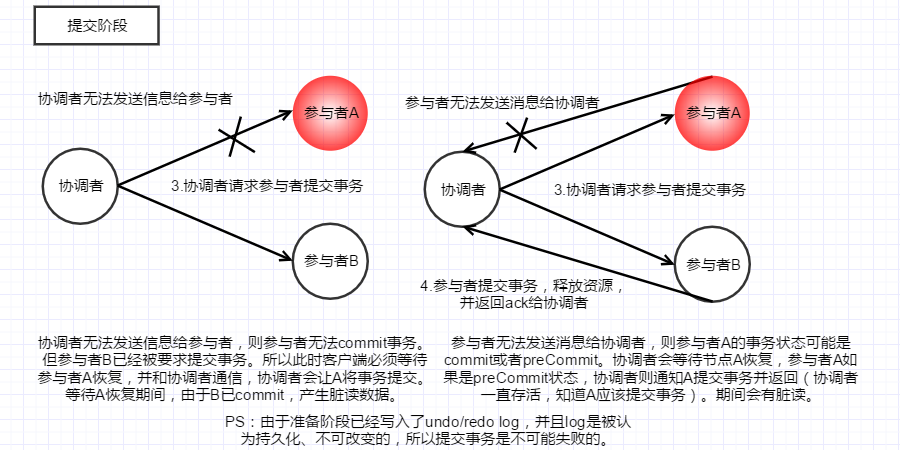
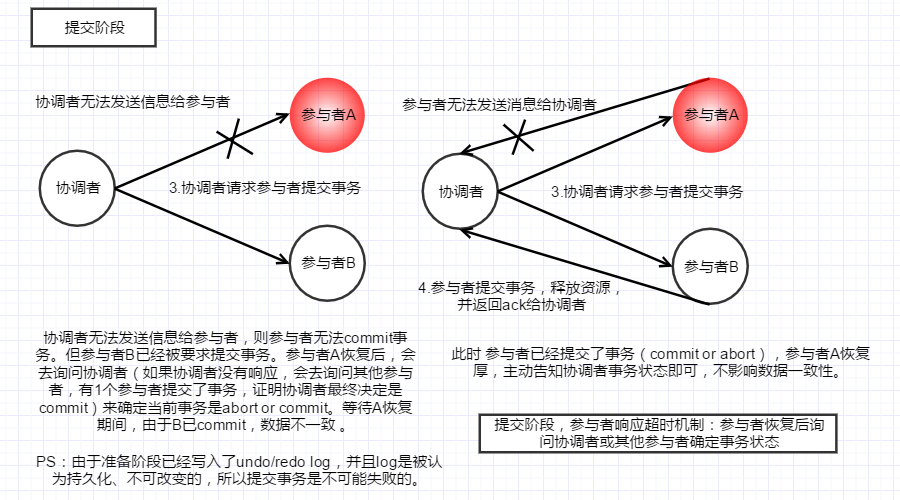
update

Changed region(s): [[0.0311, 0.1556, 0.9644, 0.9956], [0.0311, 0.0, 0.1867, 0.1244]]

diff --git a/source/_posts/分布式一致性算法：二段提交和三段提交.md b/source/_posts/分布式一致性算法：二段提交和三段提交.md
@@ -27,10 +27,11 @@ tags: [分布式一致性算法,二段提交,三段提交,分布式事务]
 - 参与者宕机：协调者会告知所有参与者回滚事务，执行rollback。参与者如果恢复，对于未提交的事务也采取rollback操作。
 ![2PC_ExceptionAnalysis](/resources/img/distributed_systems/2PC_ExceptionAnalysis1.png)
 ![2PC_ExceptionAnalysis](/resources/img/distributed_systems/2PC_ExceptionAnalysis2.png)
-- 协调者宕机：2PC里协调者存在单点问题，如果开启了事务，参与者会等待协调者恢复后重新和协调者通信，汇报当前事务状态。这个等待过程是阻塞的。
+- 协调者宕机：协调者在提交阶段宕机，如果此前没有任何参与者收到协调者的commit or abort命令，则整个事务的状态不可知。只能等待协调者恢复后，重新发送命令告诉参与者。（如果引入协调者响应超时机制，超时后去询问其他参与者，参与者都未提交事务，则事务回滚；若有一个参与者提交了事务，则所有参与者提交事务。）
 - 协调者和参与者同时宕机：而参与者执行了rollback/commit操作，却来不及返回给协调者。此时即使选举了新的协调者，也不知道宕掉的参与者的事务状态。
 ![2PC_ExceptionAnalysis](/resources/img/distributed_systems/2PC_ExceptionAnalysis3.png)
 ![2PC_ExceptionAnalysis](/resources/img/distributed_systems/2PC_ExceptionAnalysis4.png)
+![2PC_ExceptionAnalysis](/resources/img/distributed_systems/2PC_ExceptionAnalysis5.png)
 
 ## 缺点
 - 最终一致性：参与者宕机，等待恢复期间数据节点间的数据不一致。实现的是最终一致性。
